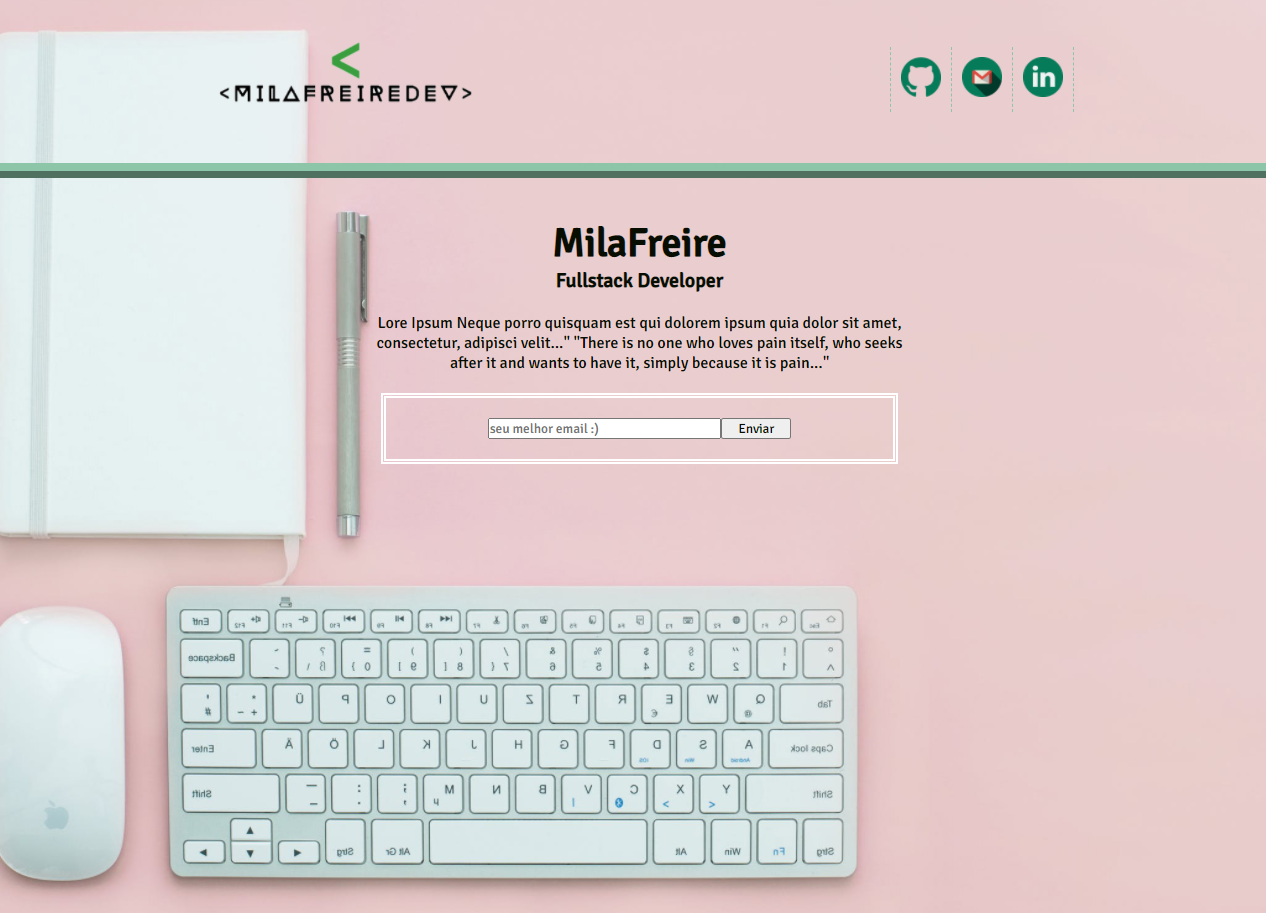
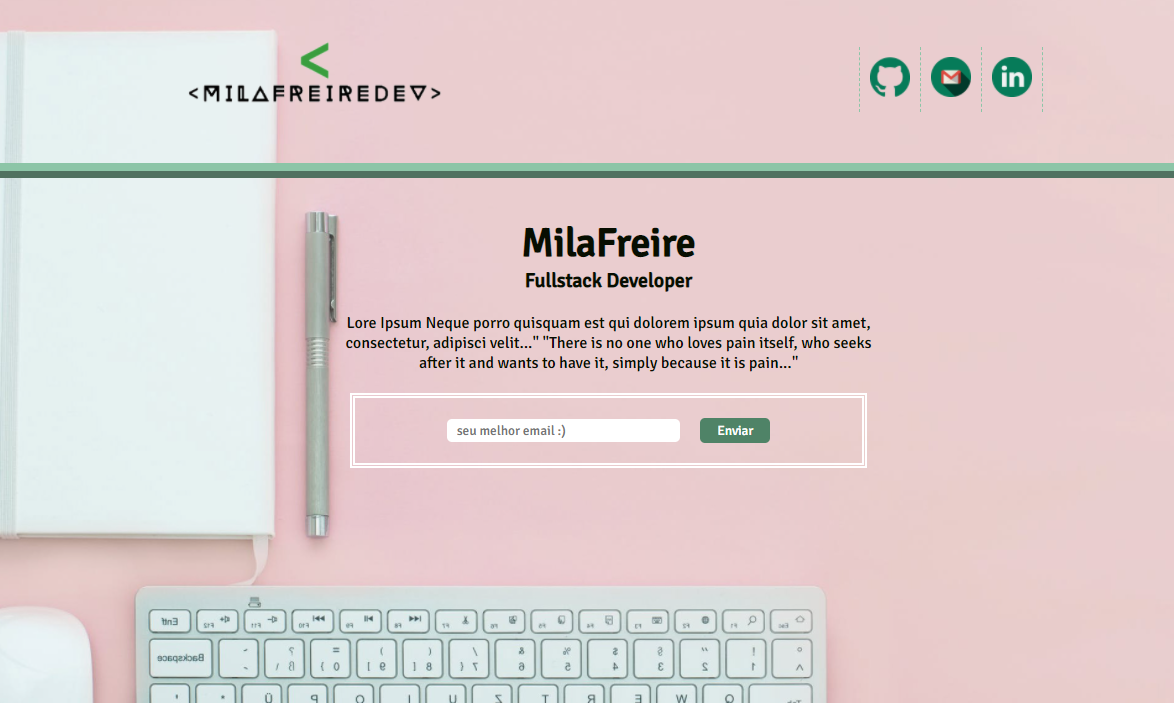
#2

Changed region(s): [[0.0, 0.0299, 1.0, 1.0], [0.7053, 0.0597, 0.8893, 0.1494], [0.368, 0.5974, 0.6746, 0.6273]]

diff --git a/style.css b/style.css
@@ -46,10 +46,28 @@ a {
 
 .form input{
     width: 50%;
+    padding: 3px 10px;
+    border: none;
+    border-radius: 5px 5px 5px 5px;
 }
 
 .form button{
     width: 15%;
+    padding: 4px 10px;
+    background-color:#4f8367;
+    color: #ffff;
+    font-weight: 450;
+    border: none;
+    cursor: pointer;
+    transition: 300ms;
+    border-radius: 5px 5px 5px 5px;
+    margin-left: 20px;
+    
+}
+.form button:hover{
+    background-color: rgb(209, 141, 178);
+    color: rgb(173, 233, 188);
+
 }
 
 body {
